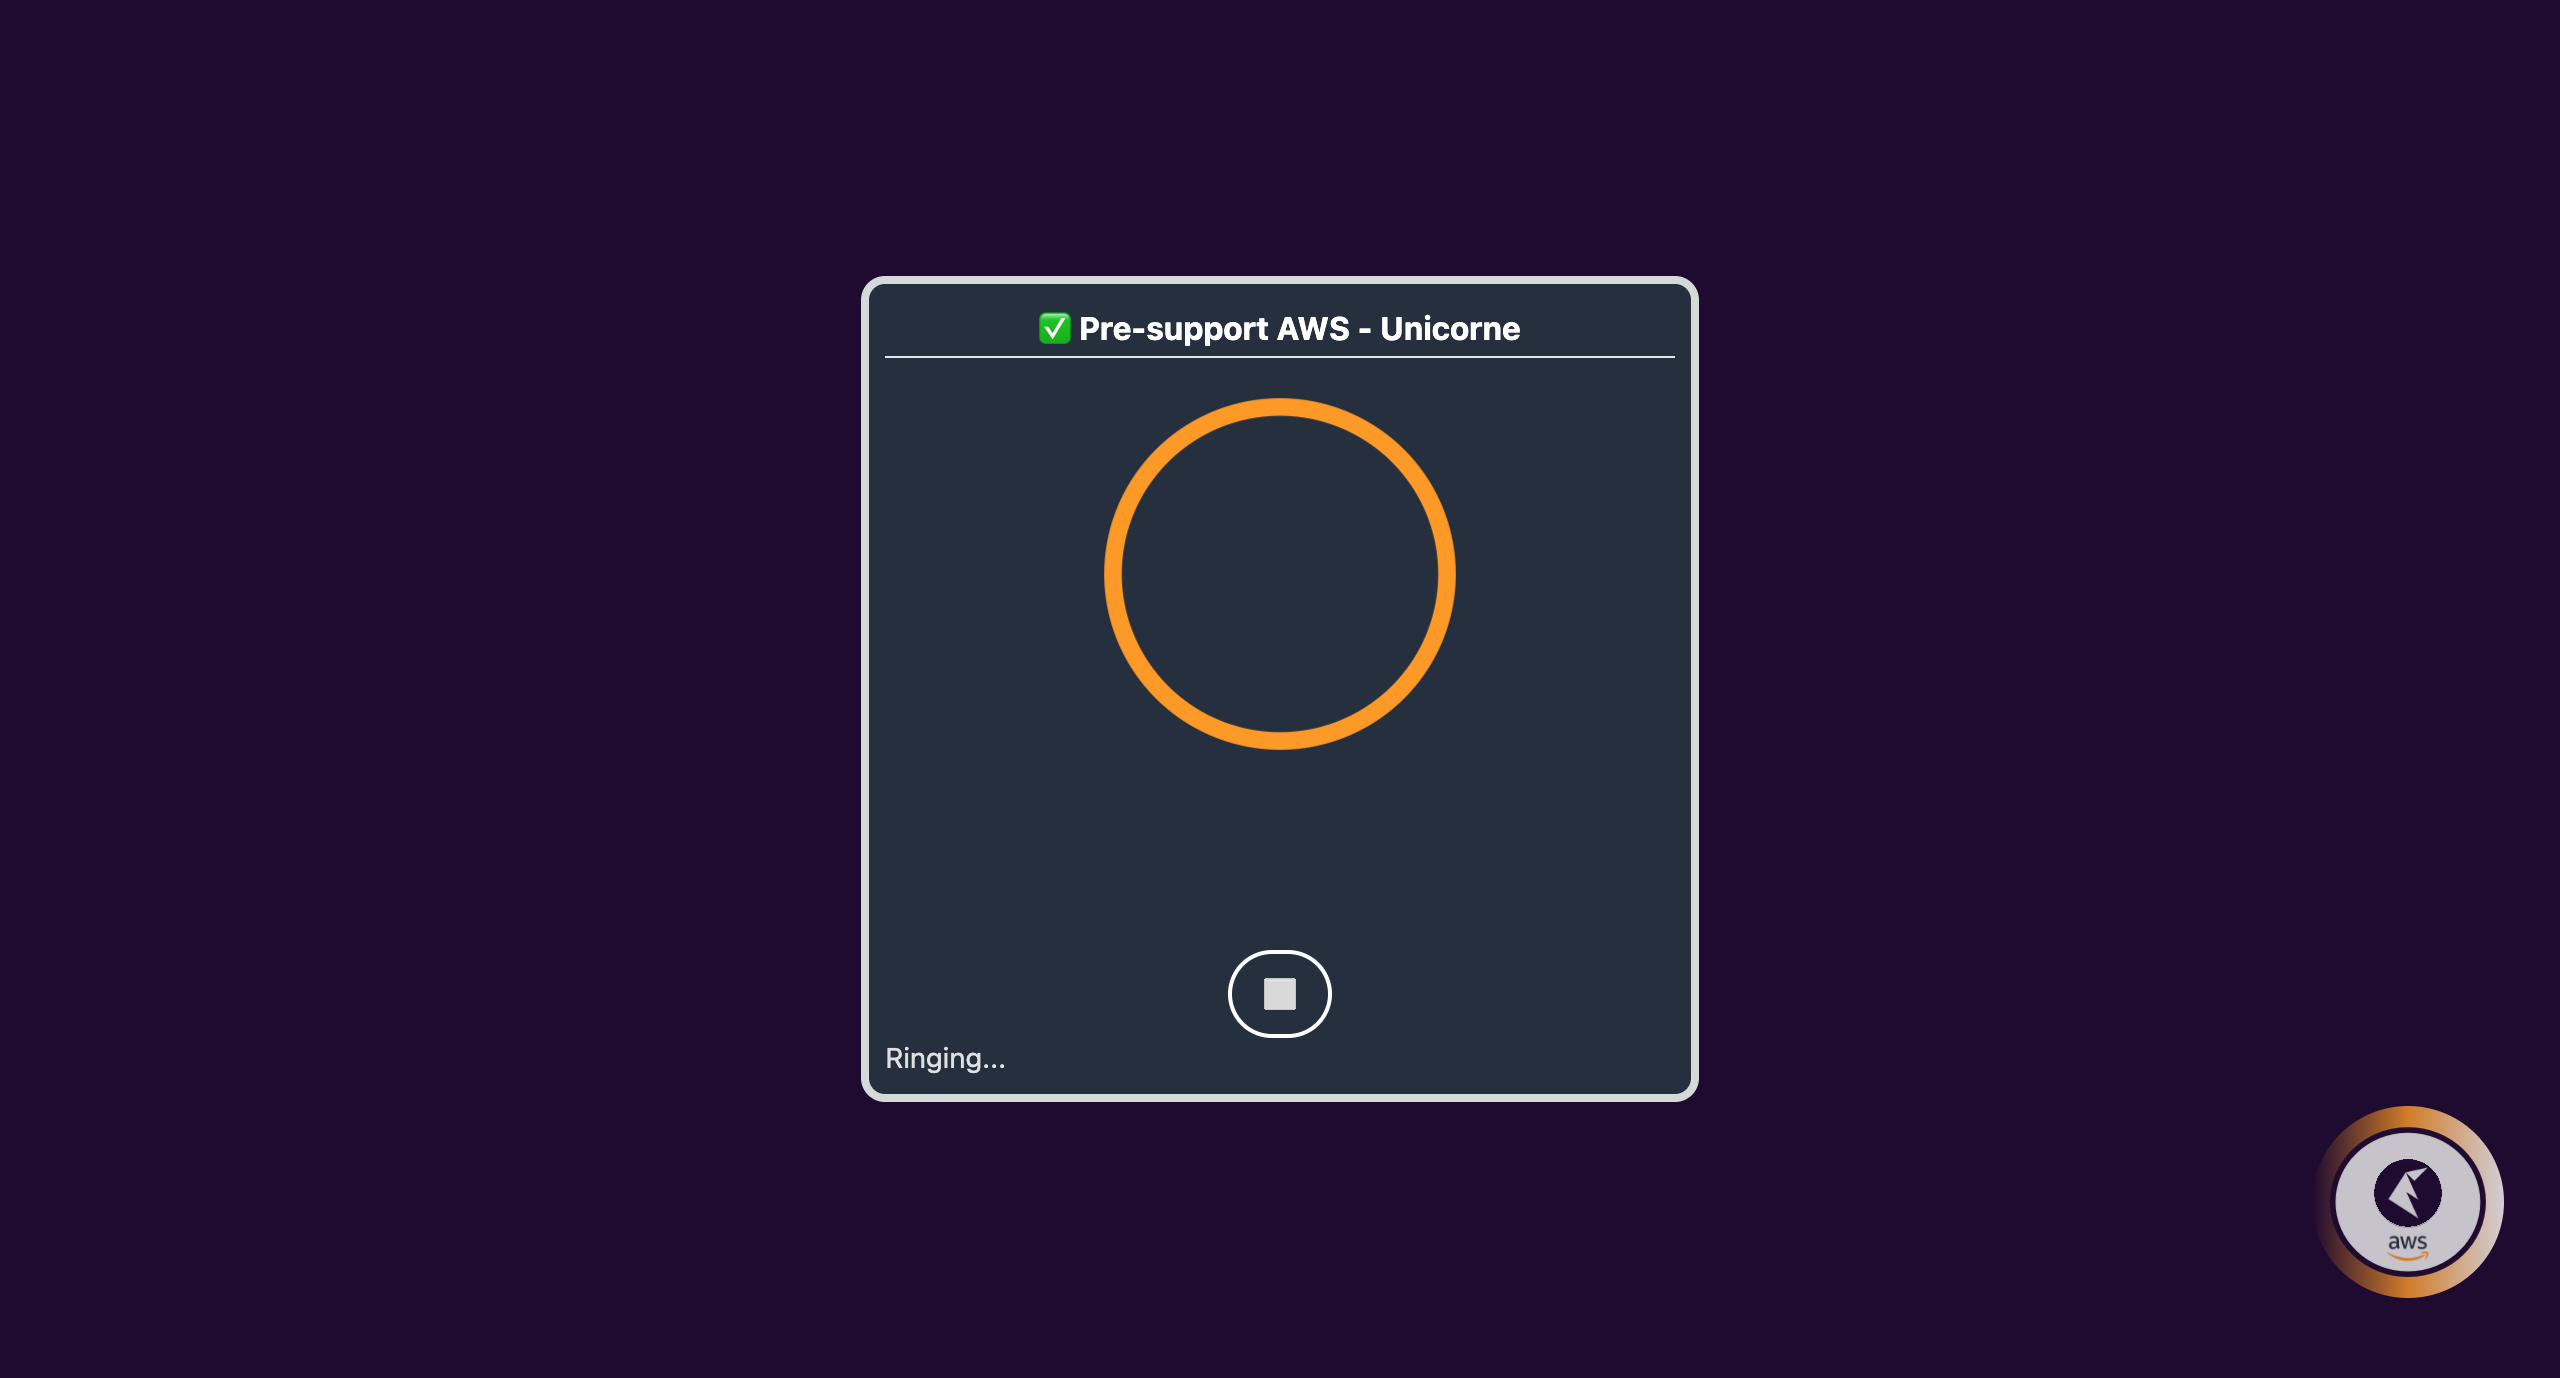
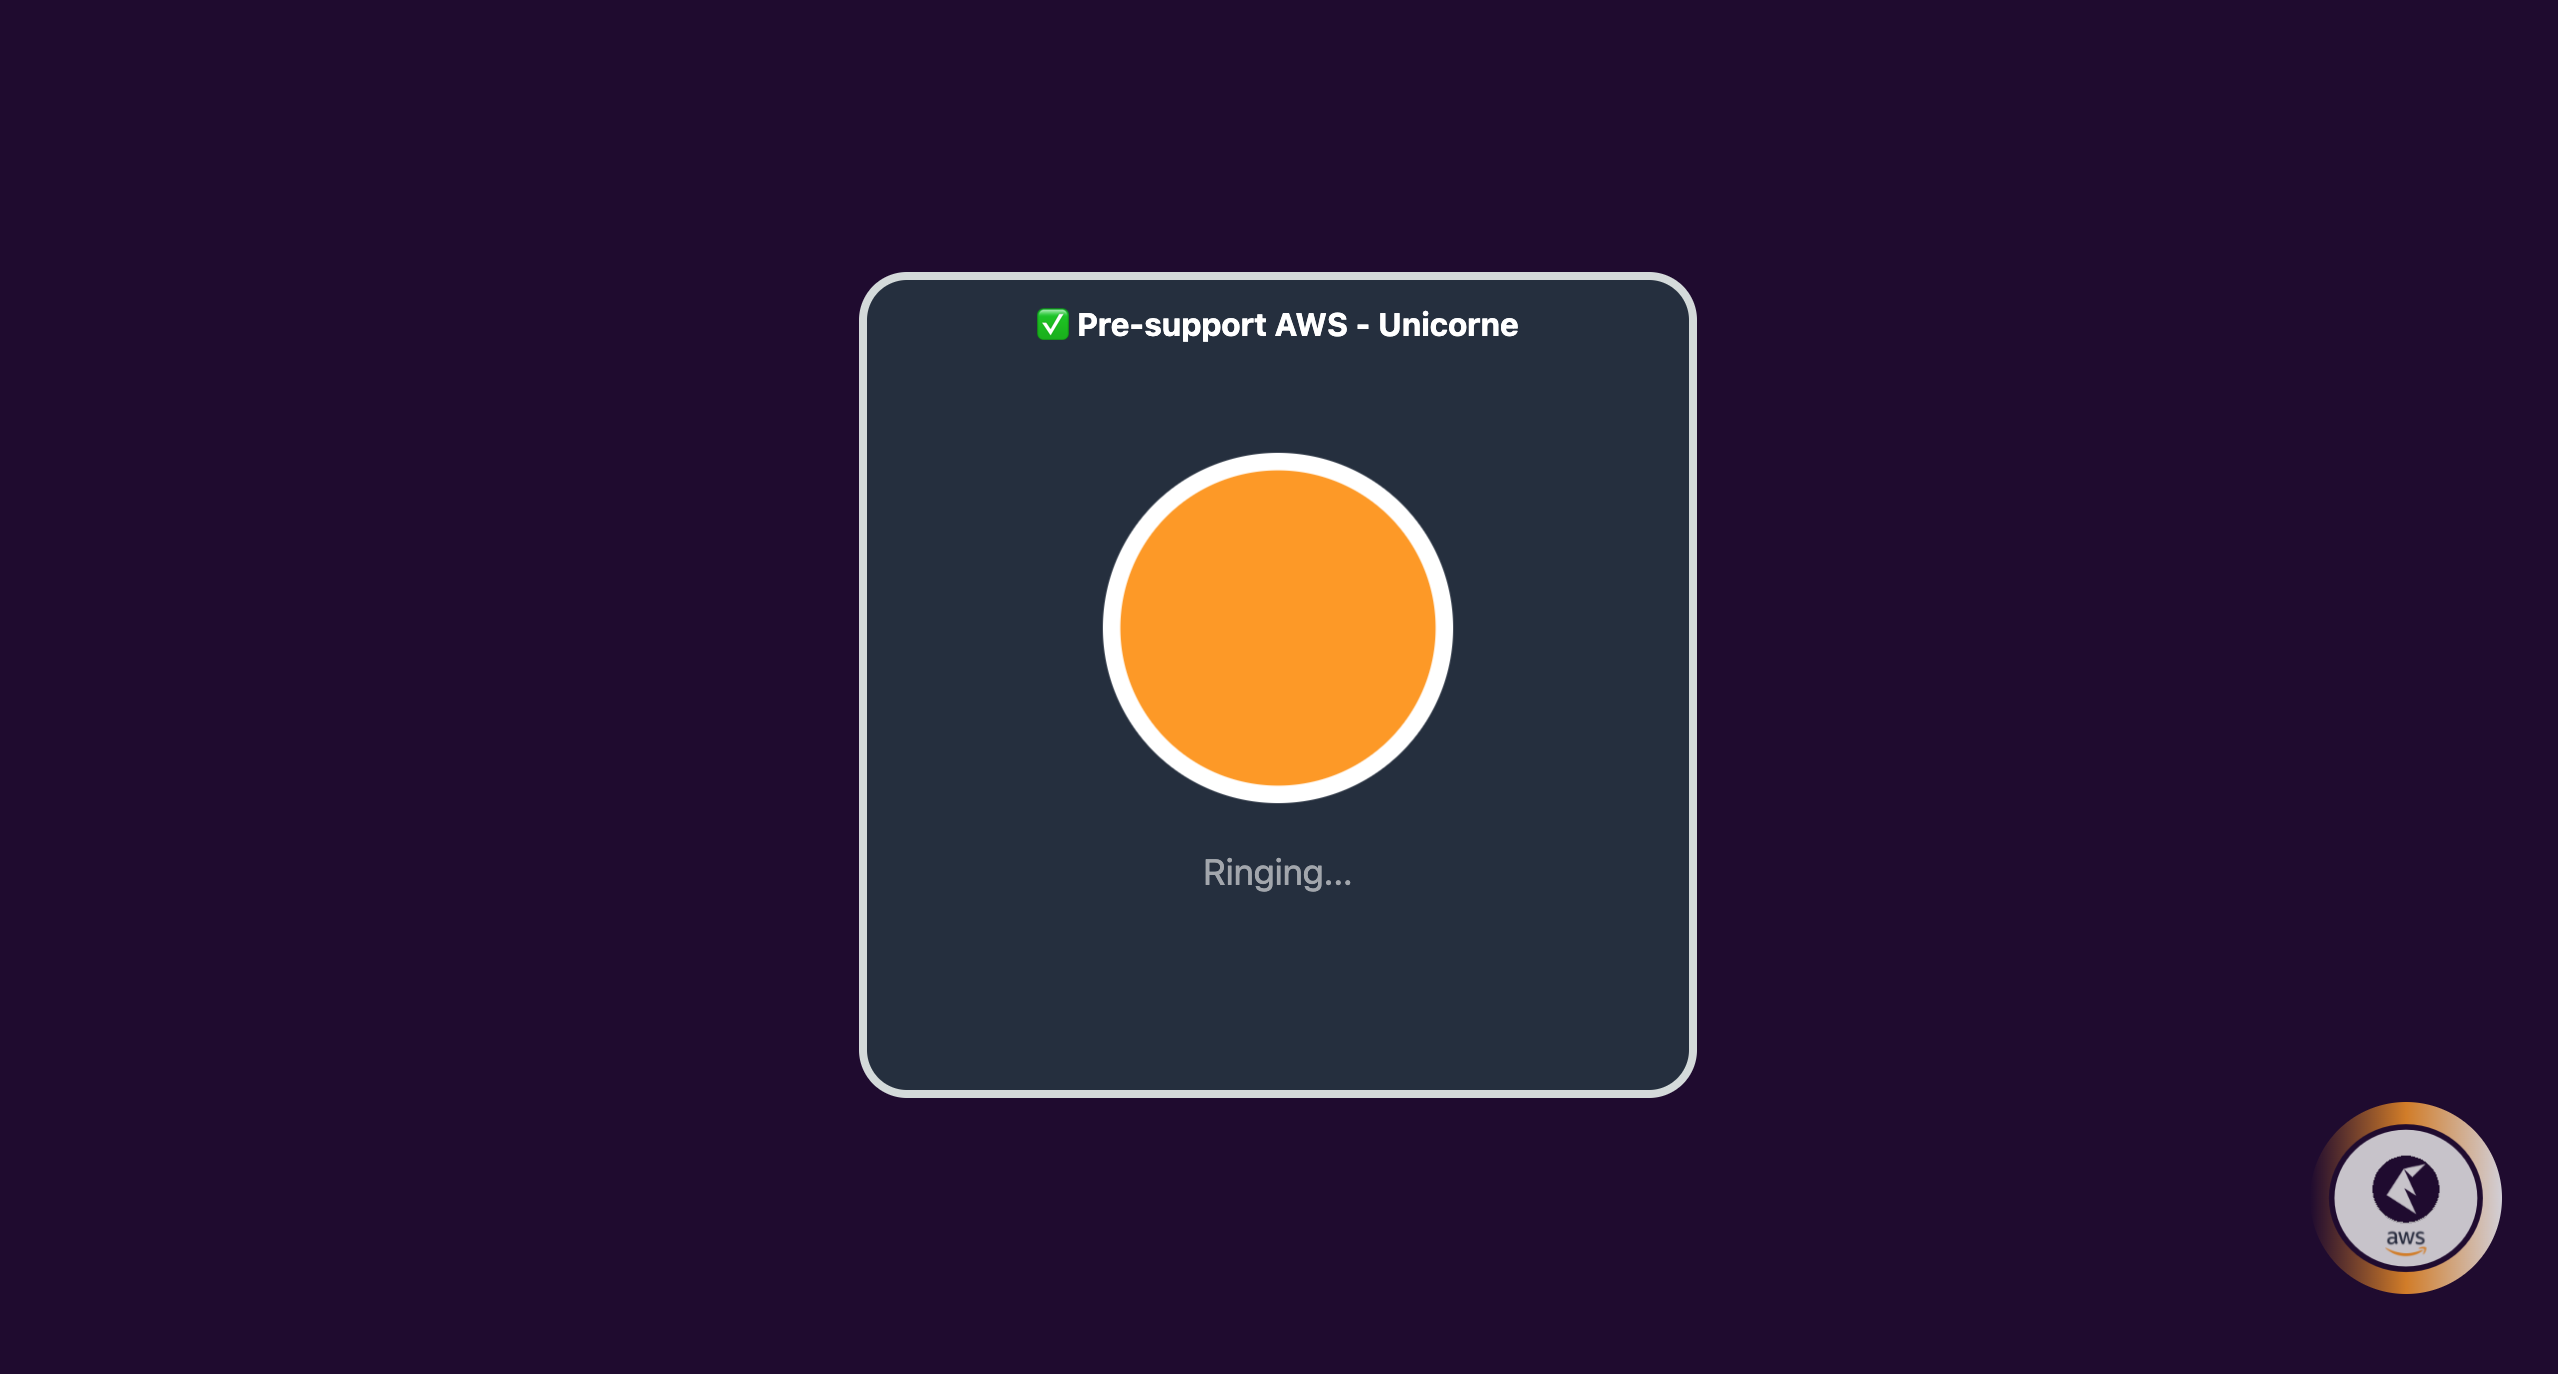
connect basic ui with aws api

diff --git a/ui/src/func/useDialogAPI.ts b/ui/src/func/useDialogAPI.ts
@@ -1,12 +1,11 @@
-import { useState, useRef, useEffect } from 'react'
+import { useState, useRef, useEffect, useCallback } from 'react'
 import { TypewriterClass } from 'typewriter-effect'
 
 const BACKEND_URL = import.meta.env.VITE_BACKEND_URL || 'ws://localhost:8080' // Default to localhost for development
-const TIMEOUT = 3000
+const TIMEOUT = 3000 // 3 seconds
 const DEFAULT_STATUS_TRANSCRIPT = 'Ringing...'
 
 export const useDialogAPI = () => {
-  const [sessionId, setSessionId] = useState<string | null>(null)
   const [isRecording, setIsRecording] = useState(false)
   const [statusMessage, setStatusMessage] = useState<string | null>(DEFAULT_STATUS_TRANSCRIPT)
   const [typewriter, setTypeWriter] = useState<TypewriterClass>()
@@ -14,38 +13,59 @@ export const useDialogAPI = () => {
   const mediaRecorderRef = useRef<MediaRecorder | null>(null)
   const audioPlayerRef = useRef<HTMLAudioElement | null>(null)
 
-  const fetchSessionId = async () => {
-    try {
-      const response = await fetch(`${BACKEND_URL}/connect`)
-      if (!response.ok) {
-        throw new Error(`Error fetching session ID: ${response.statusText}`)
-      }
-      const data = await response.json()
-      setSessionId(data.session_id)
-    } catch (error) {
-      console.error('Error fetching session ID:', error)
-      setStatusMessage('Error starting session.')
+  const handleUserInput = (event: BlobEvent) => {
+    if (event.data.size > 0) {
+        // user said someting or interupted assistant
+        if (audioPlayerRef.current && typewriter) {
+            audioPlayerRef.current.pause()
+            typewriter.pauseFor(2).deleteAll().typeString('...')
+        }
+        // send audio
+        const audioBlob = event.data
+        if (socketRef.current?.readyState === WebSocket.OPEN) {
+            socketRef.current.send(audioBlob)
+        } else {
+            console.error('Not open. Cannot send audio.')
+        }
+    } else {
+        // user went silent, assistant turn
+        if (typewriter) {
+            typewriter.pauseFor(2).deleteAll().typeString('Processing!')
+        }
+    }
+    
+  }
+
+  const handleAssistantOutput = (output: { sessionId: string, audioBlob: Blob, transcript?: string}) => {
+    if (output.audioBlob instanceof Blob) {
+        const audioUrl = URL.createObjectURL(output.audioBlob)
+        if (audioPlayerRef.current && typewriter) {
+            audioPlayerRef.current.src = audioUrl
+            audioPlayerRef.current.play()
+            if (output.transcript) {
+                typewriter.pauseFor(2).deleteAll().typeString(output.transcript)
+            } else {
+                typewriter.pauseFor(2).deleteAll().typeString('Answering!')
+            }
+        }
+    } else {
+        console.warn('invalid audio Blob')
     }
   }
 
   const startRecording = () => {
-    setStatusMessage(null) // Clear any previous errors
-
+    setStatusMessage("Checking microphone...")
     navigator.mediaDevices.getUserMedia({ audio: true })
-      .then((stream) => {
+    .then((stream) => {
         setIsRecording(true)
         mediaRecorderRef.current = new MediaRecorder(stream)
-        mediaRecorderRef.current.ondataavailable = (event) => {
-          if (event.data.size > 0) {
-            sendAudio(event.data)
-          }
-        }
+        mediaRecorderRef.current.ondataavailable = handleUserInput
         mediaRecorderRef.current.start()
-      })
-      .catch((error) => {
+    })
+    .catch((error) => {
         console.error('Error accessing microphone:', error)
         setStatusMessage('Error accessing microphone. Please grant permissions.')
-      })
+    })
   }
 
   const stopRecording = () => {
@@ -55,66 +75,55 @@ export const useDialogAPI = () => {
     setIsRecording(false)
   }
 
-  const sendAudio = (audioBlob: Blob) => {
-    if (socketRef.current?.readyState === WebSocket.OPEN) {
-      socketRef.current.send(audioBlob)
-    } else {
-      console.error('Not open. Cannot send audio.')
-      setStatusMessage('Error sending audio. Please try again.') 
-    }
-  }
-
-  const playAudio = (audioBlob: Blob) => {
-    const audioUrl = URL.createObjectURL(audioBlob)
-    if (audioPlayerRef.current) {
-      audioPlayerRef.current.src = audioUrl
-      audioPlayerRef.current.play()
-    }
-  }
-
   const endSession = async () => {
     try {
       stopRecording() 
       if (socketRef.current) {
         socketRef.current.close()
       }
-      if (sessionId) {
-        // Send request to backend to end session and generate PDF (replace with your endpoint)
-        const response = await fetch(`${BACKEND_URL}/end-session/${sessionId}`) 
-        if (!response.ok) {
-          throw new Error(`Error ending session: ${response.statusText}`)
-        }
-        // Handle response, e.g., display message that transcript is being generated
-        console.log('Session ended successfully')
-      }
+      console.log('Session ended successfully')
     } catch (error) {
       console.error('Error ending session:', error)
-      setStatusMessage('Error ending session.') 
     }
   }
 
+  const toggleListening = useCallback(() => {
+    if (isRecording) stopRecording()
+    else startRecording()
+  },[isRecording])
+
   useEffect(() => {
     if (!typewriter) return
+
     const connectWebSocket = () => {
       socketRef.current = new WebSocket(BACKEND_URL) 
 
-      socketRef.current.onopen = () => {
-        console.log('Connected')
-        fetchSessionId()
+      socketRef.current.onopen = (event) => {
+        console.log('Connected', event)
+        if (socketRef.current) {
+            socketRef.current.send("Hi")
+        }
+        if (!isRecording) startRecording()
       }
 
       socketRef.current.onmessage = (event) => {
-        try {
-          const audioBlob = event.data
-          // event.data should contain audio transcript so it can be typed by the typewritter
-          if (audioBlob instanceof Blob) {
-            playAudio(audioBlob)
-          } else {
-            console.error('Received non-Blob data:', event.data)
+          try {
+            console.log("assistant message:", event.data)
+            const data = JSON.parse(event.data);
+            const msgType: string = data.type
+
+            switch (msgType) {
+                case 'message':
+                    handleAssistantOutput(data.value)
+                    break
+                default:
+                    console.error('Unknow event data type', data)
+                    break
           }
+
+          
         } catch (error) {
           console.error('Error handling incoming message:', error)
-          setStatusMessage('Error playing audio response.') 
         }
       }
 
@@ -122,15 +131,12 @@ export const useDialogAPI = () => {
         console.log('closed:', event)
         if (!event.wasClean) {
           // Attempt reconnect if the connection closed unexpectedly
-          // typewriter.typeString("Welcome, please wait...")
-          setTimeout(connectWebSocket, TIMEOUT) // Reconnect after 3 seconds
+          setTimeout(connectWebSocket, TIMEOUT) // Reconnect after timeout
         }
       }
 
       socketRef.current.onerror = (error) => {
         console.error('error:', error)
-        // typewriter.typeString("Welcome, please wait...").start()
-        // setStatusMessage('Connection error.')
       }
     }
 
@@ -143,22 +149,21 @@ export const useDialogAPI = () => {
 
   useEffect(() => {
     if (!typewriter || !statusMessage) return
-    if (!sessionId) {
-        typewriter.deleteAll()
+    typewriter.deleteAll()
+    if (!isRecording && statusMessage != DEFAULT_STATUS_TRANSCRIPT) {
         typewriter.typeString(DEFAULT_STATUS_TRANSCRIPT).start()
         return
     }
     typewriter.stop()
     typewriter.typeString(statusMessage).start()
 
-  }, [typewriter, statusMessage])
+  }, [typewriter, statusMessage, isRecording])
   
 
     return {
         isRecording,
         statusMessage,
-        startRecording,
-        stopRecording,
+        toggleListening,
         endSession,
         setTypeWriter,
     }

diff --git a/ui/src/components/Assistant.tsx b/ui/src/components/Assistant.tsx
@@ -7,23 +7,23 @@ import useDialogAPI from '@/func/useDialogAPI'
 import './styles.css'
 
 const Assitant: React.FC = () => {
-  const { isRecording, stopRecording, setTypeWriter } = useDialogAPI();
+  const { isRecording, toggleListening, setTypeWriter } = useDialogAPI();
 
   return (
     <div className="flex flex-col justify-center align-middle items-center place-items-center h-[300px] mt-7 text-white">
-      <div className="ripple-effect assistant-active flex justify-center align-middle place-items-center rounded-full h-40 w-40 border-8 border-[white] bg-[var(--color-1)]">
+      <a onClick={toggleListening} href="#" className="ripple-effect assistant-active flex justify-center align-middle place-items-center rounded-full h-40 w-40 border-8 border-[white] bg-[var(--color-1)]">
         <span className="text-4xl"></span>
-      </div>
+      </a>
 
       <div className="flex mt-7 text-white">
-        <Typewriter onInit={(typewriter) => setTypeWriter(typewriter) } options={{cursor: '', loop: false, delay: 7, wrapperClassName: 'flex animate-pulse text-lg'}} />
+        <Typewriter onInit={(typewriter) => setTypeWriter(typewriter) } options={{cursor: '', loop: false, delay: 7, wrapperClassName: 'flex animate-pulse text-lg min-h-7'}} />
       </div>
         
       
       <div className="flex flex-col w-full fixed bottom-0 p-2 text-white" >
         <div className="invisible inline-flex justify-center">
           <Button 
-            onClick={stopRecording} disabled={!isRecording}
+            onClick={toggleListening} disabled={!isRecording}
             className="ripple-effect rounded-full border-2 border-white py-2 px-3 text-md font-bold text-white">
             ⬜
           </Button>
